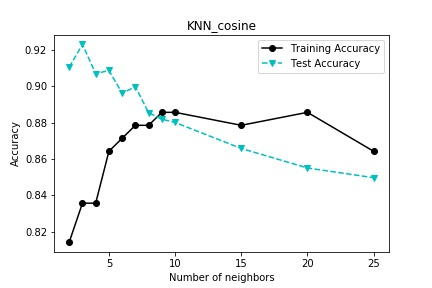
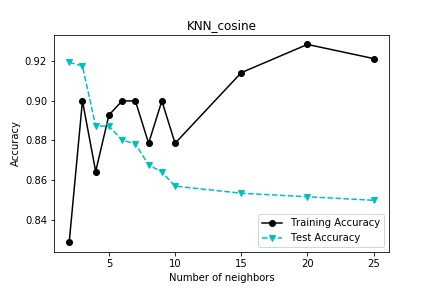
Changed how the data is split to what he did on the solutions for assignment 2

diff --git a/v1/test.py b/v1/test.py
@@ -29,7 +29,6 @@ def print_acc(trainAcc, testAcc, dp, c1, c2,xAxis,file_name):
 def des_tree(x_train, x_test, y_train, y_test, depth, criterion_name ):
     #making tree
     tr = tree.DecisionTreeClassifier(criterion=criterion_name, max_depth=depth)
-        
     
     #Training tree
     tr = tr.fit(x_train, y_train)
@@ -39,8 +38,6 @@ def des_tree(x_train, x_test, y_train, y_test, depth, criterion_name ):
     
     return metrics.accuracy_score(y_test,  y_predTest), metrics.accuracy_score(y_train, y_predTrain)
     
-    
-
 
 def k_neighbour(x_train, x_test, y_train, y_test, k, algo):
      
@@ -57,41 +54,36 @@ def k_neighbour(x_train, x_test, y_train, y_test, k, algo):
     return (accuracy_score(y_test, y_predTest),accuracy_score(y_train, y_predTrain))
 
 
-
-
-
-def main():
-    
+def split_data(file):
 
     colNames = ['Sample Code #', 'Clump Thickness', 'Uniformity of Cell Size',
                 'Uniformity of Cell Shape', 'Marginal Adhesion', 
                 'Single Epithelial Cell Size', 'Bare Nuclei', 'Bland Chromatin',
                 'Normal Nucleoli', 'Mitoses', 'Class - 2=Benign 4=Malignant']
-    
-    data = pd.read_csv('breast-cancer-wisconsin2.data', header=None, names=colNames)
-    
-    #Printing instsnces of each attribute in the data set.
-    data.info()
-    print()
-    
-    #Splitting data 80 20
-    train, test = train_test_split(data, test_size=0.2,random_state=2142)
-    
-    
+    file = pd.read_csv(file, header=None)
+    file.columns = colNames
+
+    train, test = train_test_split(file, test_size=0.2, random_state=2142)
+
     features = ['Clump Thickness', 'Uniformity of Cell Size',
                 'Uniformity of Cell Shape', 'Marginal Adhesion', 
                 'Single Epithelial Cell Size', 'Bland Chromatin',
                 'Normal Nucleoli', 'Mitoses']
+
+    train.columns = colNames
+    y_train = train['Class - 2=Benign 4=Malignant']
+    x_train = train[features]
+
+    test.columns = colNames
+    y_test = test['Class - 2=Benign 4=Malignant']
+    x_test = test[features]
     
-    #Separating attributes
-    x = data[features]
-    y = data['Class - 2=Benign 4=Malignant']
+    return x_train, x_test, y_train, y_test
+
+
+def main():
     
-    
-    #Spliting test and train 
-    x_train, x_test, y_train, y_test = train_test_split(x, y, test_size= 0.2)
-  
-    
+    x_train, x_test, y_train, y_test = split_data('breast-cancer-wisconsin2.data')
     
     #
     #Trying decision tree with various depths from 2 to 25 with criterion entropy
@@ -108,7 +100,6 @@ def main():
        
     #Printing graph
     print_acc(trainAcc, testAcc, dp, 'ko-','cv--', 'Depth', 'des_tree_entropy')
-
 
 
     #
